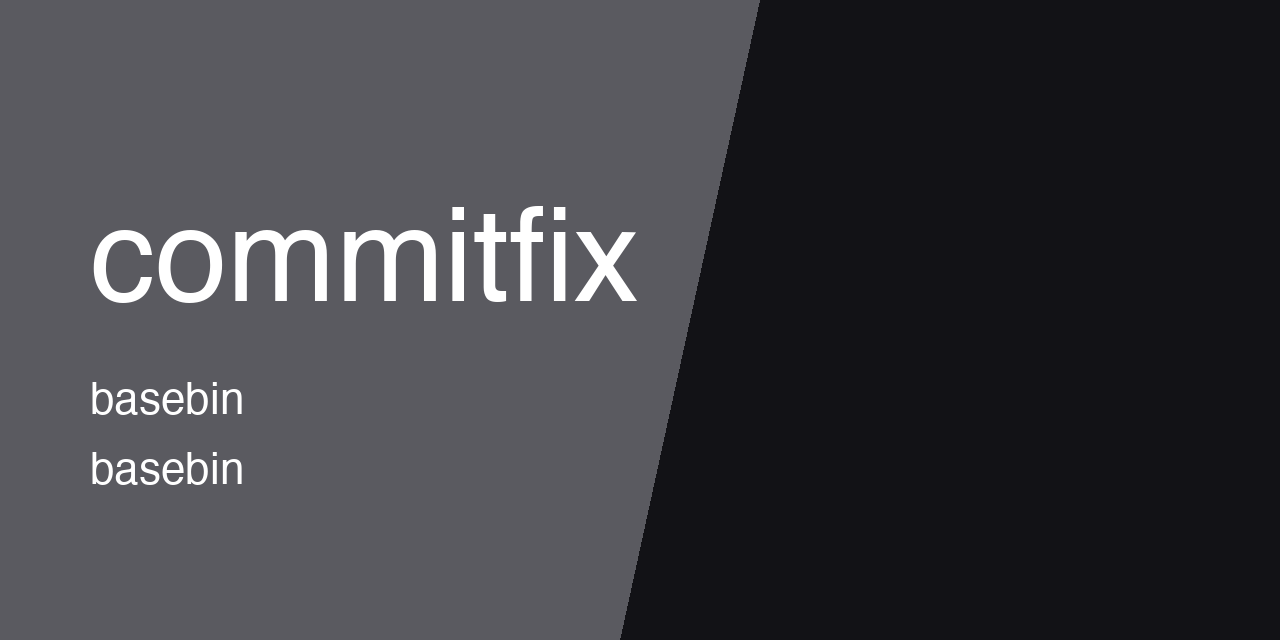
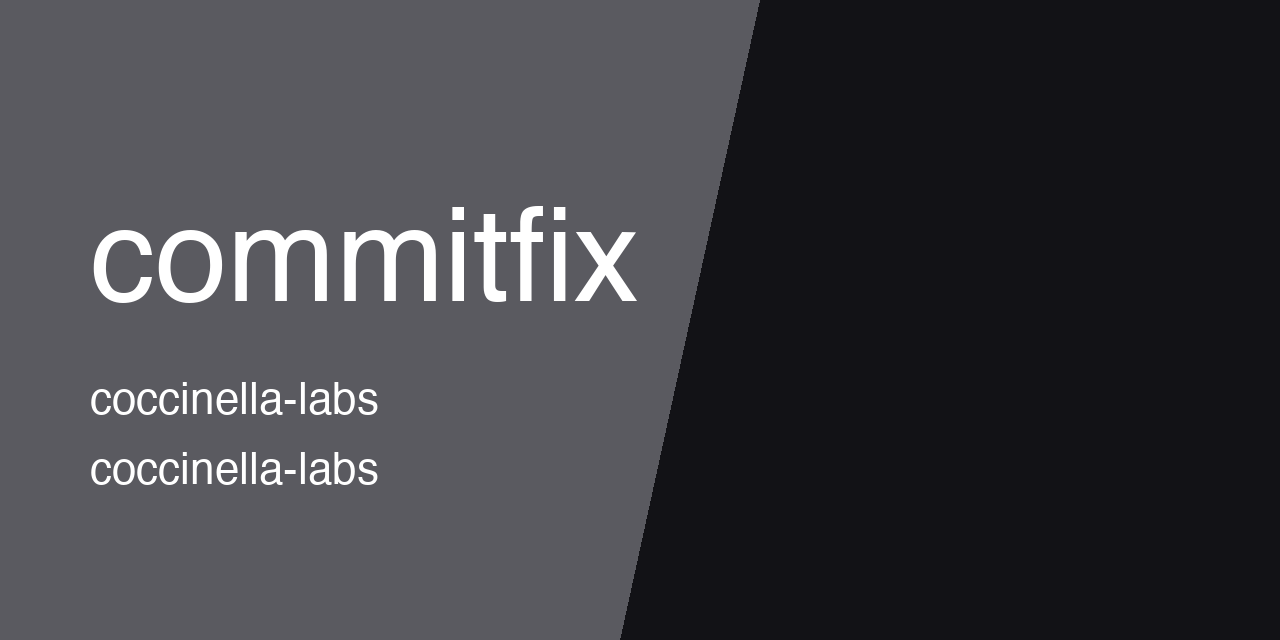
[docs] move thumbnail to coccinella-labs

Changed region(s): [[0.0625, 0.5938, 0.3125, 0.6562], [0.0625, 0.7188, 0.3125, 0.7812]]

diff --git a/README.md b/README.md
@@ -1,5 +1,5 @@
 <p align="center">
-  <img src="https://raw.githubusercontent.com/basebin/commitfix/main/.github/assets/thumbnail.png" alt="commitfix" width="100%">
+  <img src="https://raw.githubusercontent.com/Coccinella-Labs/commitfix/main/.github/assets/thumbnail.png" alt="commitfix" width="100%">
 </p>
 
 # commitfix
